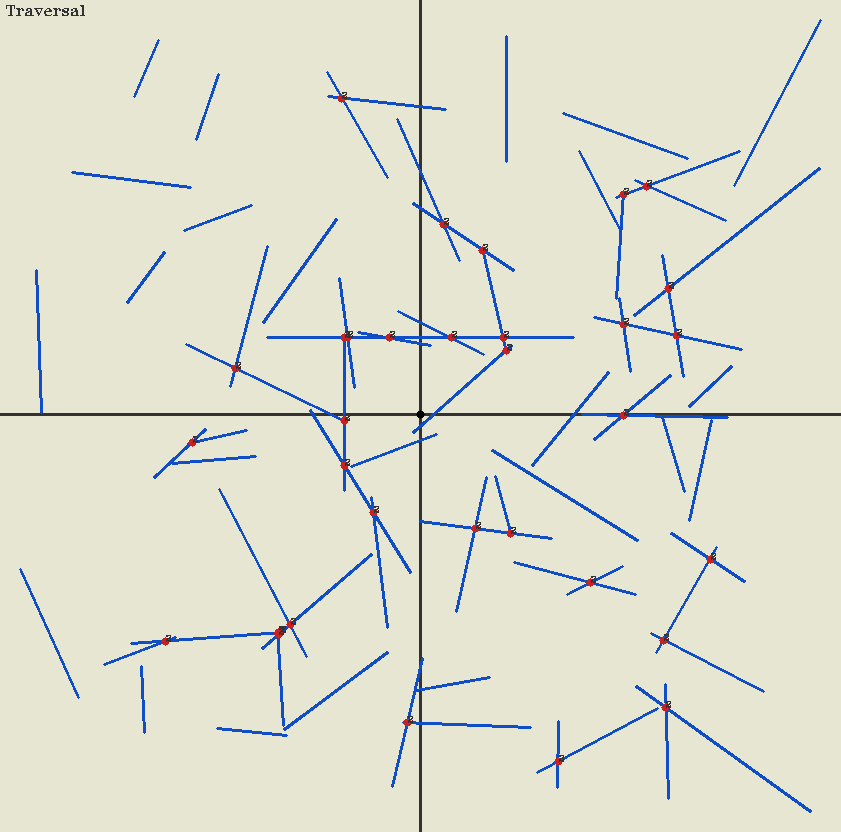
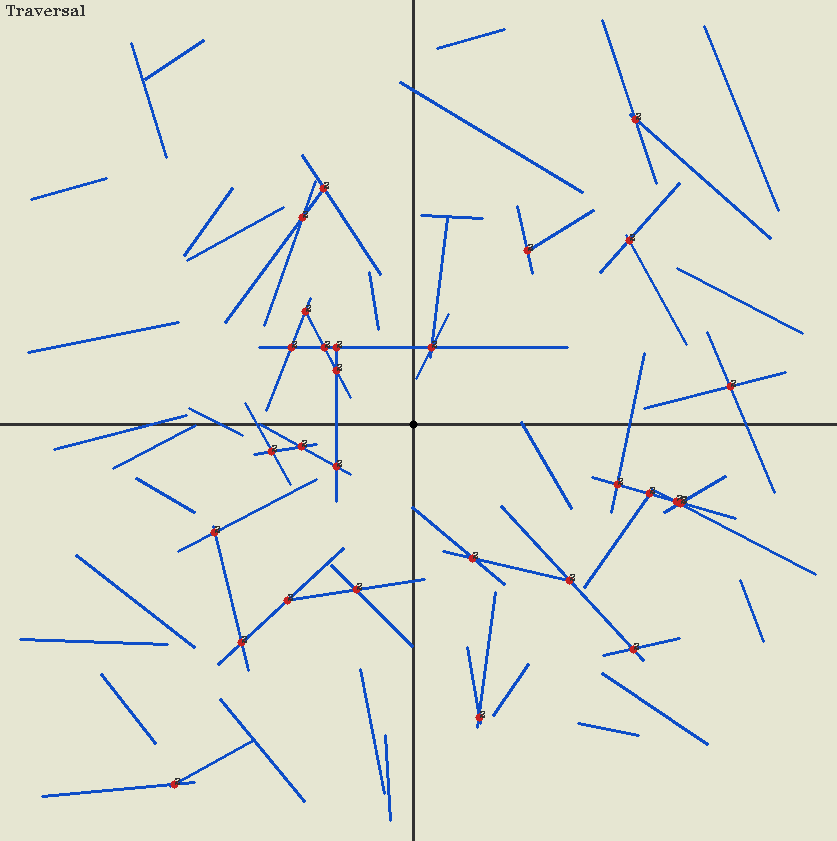
code backup

diff --git a/main.cpp b/main.cpp
@@ -157,9 +157,6 @@ void avltree_test() {
 
 // ================ line Segment Intersection Test ================
 
-GeoChain::Euclidean::Point GeoChain::Algorithms::PlaneSweeper::SweeperState =
-		GeoChain::Euclidean::Point(EUC2D, -g_GlobalVars.convention_infinity, -g_GlobalVars.convention_infinity);
-
 GeoChain::Algorithms::PlaneSweeper line_intersection_sweepline(std::vector<GeoChain::Euclidean::Segment> *ptr_segs,
 																															 int repeat_num) {
 	using namespace GeoChain;
@@ -304,12 +301,11 @@ void sweepline_test(float range, float expand, int repeat_experiments, bool visu
 	if (visual_opt) {
 		visual.Visualize("Sweepline", "Topics/Line Segment Intersection/Sweepline.png");
 		visual_traverse.Visualize("Traversal", "Topics/Line Segment Intersection/Traversal.png");
-		cv::destroyAllWindows();
 	}
 }
 
-std::vector<GeoChain::Algorithms::PlaneSweeper> double_sweepline(
-		std::vector<std::vector<GeoChain::Euclidean::Segment>> *ptr_seg_vecs) {
+void double_sweepline(std::vector<std::vector<GeoChain::Euclidean::Segment>> *ptr_seg_vecs,
+											std::vector<GeoChain::Euclidean::Visualizer2D> *visual_list) {
 	using namespace GeoChain;
 	using namespace Algorithms;
 	using namespace Euclidean;
@@ -328,30 +324,46 @@ std::vector<GeoChain::Algorithms::PlaneSweeper> double_sweepline(
 
 	std::vector<int> step_counter_list = {0, 0};
 	std::vector<bool> continue_flag_list = {true, true};
-	std::vector<PlaneSweeper> sweeper_list = {plane_sweeper_1, plane_sweeper_2};
 
 	int num_flag_false = 0;
 	while (num_flag_false < 2) {
-		for (int i = 0; i < 2; i++) {
-			if (continue_flag_list[i] and sweeper_list[i].Update()) {
-				LOG(INFO) << "(" << sweeper_list[0].SweeperState.x_ << "," << sweeper_list[0].SweeperState.y_ << ") v.s. ("
-									<< sweeper_list[1].SweeperState.x_ << "," << sweeper_list[1].SweeperState.y_ << ")";
-				step_counter_list[i]++;
-			} else if (continue_flag_list[i]) {
-				num_flag_false += 1;
-				continue_flag_list[i] = false;
-			}
+		// LOG(WARNING) << "(" << sweeper_list[0].SweeperState.x_ << "," << sweeper_list[0].SweeperState.y_ << ") v.s. ("
+		// 						 << sweeper_list[1].SweeperState.x_ << "," << sweeper_list[1].SweeperState.y_ << ")";
+
+		// (*visual_list)[0].Draw(plane_sweeper_1.SweeperState, std::to_string(step_counter_list[0]));
+		// (*visual_list)[0].Visualize(std::to_string(0), "");
+		if (continue_flag_list[0] and plane_sweeper_1.Update()) {
+			step_counter_list[0]++;
+		} else if (continue_flag_list[0]) {
+			num_flag_false += 1;
+			continue_flag_list[0] = false;
+		}
+		// (*visual_list)[1].Draw(plane_sweeper_2.SweeperState, std::to_string(step_counter_list[1]));
+		// (*visual_list)[1].Visualize(std::to_string(1), "");
+		if (continue_flag_list[1] and plane_sweeper_2.Update()) {
+			step_counter_list[1]++;
+		} else if (continue_flag_list[1]) {
+			num_flag_false += 1;
+			continue_flag_list[1] = false;
 		}
 	}
-	return sweeper_list;
+	for (auto &&e_ : plane_sweeper_1.events_list_) {
+		if (e_.num_ >= 2) {
+			(*visual_list)[0].Draw(*(e_.point_), std::to_string(e_.num_));
+		}
+	}
+	for (auto &&e_ : plane_sweeper_2.events_list_) {
+		if (e_.num_ >= 2) {
+			(*visual_list)[1].Draw(*(e_.point_), std::to_string(e_.num_));
+		}
+	}
 }
 
-void double_sweepline_test(float range, float expand, int repeat_experiments, bool visual_opt = false) {
+void double_sweepline_test(float range, float expand, bool visual_opt = false) {
 	using namespace GeoChain;
 	using namespace Algorithms;
 	using namespace Euclidean;
 
-	std::vector<Segment> segments;
 	srand((unsigned)time(NULL));
 	float unit = 1.0;
 	float thresh = 0.3;
@@ -361,6 +373,7 @@ void double_sweepline_test(float range, float expand, int repeat_experiments, bo
 	std::vector<std::vector<Segment>> seg_vecs;
 	for (int r_ = 0; r_ < 2; r_++) {
 		std::vector<Point> attendents;
+		std::vector<Segment> segments;
 		for (int c_ = -range; c_ <= range; c_ += unit) {
 			for (int r_ = -range; r_ <= range; r_ += unit) {
 				rand_unit_ = rand() / double(RAND_MAX);
@@ -391,17 +404,11 @@ void double_sweepline_test(float range, float expand, int repeat_experiments, bo
 		seg_vecs.push_back(segments);
 	}
 
-	std::vector<PlaneSweeper> plane_sweeper_list = double_sweepline(&seg_vecs);
-	for (int i_ = 0; i_ < plane_sweeper_list.size(); i_++) {
-		for (auto &&e_ : plane_sweeper_list[i_].events_list_) {
-			if (e_.num_ >= 2) {
-				visual_list[i_].Draw(*(e_.point_), std::to_string(e_.num_));
-			}
-		}
-		if (visual_opt) {
-			visual_list[i_].Visualize("Sweepline", "Topics/Line Segment Intersection/Sweepline.png");
-			cv::destroyAllWindows();
-		}
+	double_sweepline(&seg_vecs, &visual_list);
+
+	if (visual_opt) {
+		visual_list[0].Visualize("Sweepline_1", "");
+		visual_list[1].Visualize("Sweepline_2", "");
 	}
 }
 
@@ -453,21 +460,20 @@ int main(int argc, char **argv) {
 		LOG(INFO) << g_ConfigRoot;
 	}
 
-	// visualizer test part
+	// ======== visualizer test part ========
 	// visualizer_test();
 
-	// avl-tree test part
+	// ======== avl-tree test part ========
 	// avltree_test();
 
-	// line segment intersection test part
+	// ======== line segment intersection test part ========
 	// sweepline_test(4.0, 2.5, 50, true);
 	// for (float exp_ = 1.0; exp_ < 3.5; exp_ += 0.1) {
 	// 	for (int expr_ = 0; expr_ < 1; expr_ += 1) {
 	// 		sweepline_test(10.0, exp_, 10, true);	// atof(argv[1]), atoi(argv[2])
 	// 	}
 	// }
-
-	double_sweepline_test(5.0, 2.5, 1, true);
+	double_sweepline_test(4.0, 2.5, true);
 
 	// dbconnected_edgelist_test();
 }

diff --git a/Topics/Line Segment Intersection/PlaneSweepAlgorithm.h b/Topics/Line Segment Intersection/PlaneSweepAlgorithm.h
@@ -143,11 +143,12 @@ class PlaneSweeper {
 	std::vector<Point> new_events_;
 	std::vector<PointSegmentAffiliation> events_list_ = std::vector<PointSegmentAffiliation>();
 
-	static Point SweeperState;
+	Point SweeperState;
 
-	static bool UpdateSweeper(Point* event) {
+	bool UpdateSweeper(Point* event) {
 		if (SweeperState.dim_ != event->dim_ || event->status_ == INIT) {
-			LOG(ERROR) << "please make sure that the updating events dimension match";
+			LOG(ERROR) << "please make sure that the updating events dimension match: " << SweeperState.dim_ << " "
+								 << event->dim_;
 			return false;
 		} else {
 			// LOG(WARNING) << "previous status: (" << SweeperState.x_ << "," << SweeperState.y_ << ")";
@@ -159,7 +160,7 @@ class PlaneSweeper {
 		}
 	}
 
-	static kWellOrder SegmentComparer(Node<Segment>* node_1, Node<Segment>* node_2) {
+	kWellOrder SegmentComparer(Node<Segment>* node_1, Node<Segment>* node_2) {
 		float intersect_1, intersect_2;
 		float theta_1, theta_2;	// (-PI/2, PI/2]
 		// LOG(WARNING) << "sweeper status: (" << SweeperState.x_ << "," << SweeperState.y_ << ")";
@@ -223,16 +224,19 @@ class PlaneSweeper {
 							 Node<Segment>* root_status)
 			: dim_(dim),
 				events_table_(BalancedBinarySearchTree<PointSegmentAffiliation>(root_events, comparer_events)),
-				status_table_(BalancedBinarySearchTree<Segment>(root_status, PlaneSweeper::SegmentComparer)) {
+				SweeperState(Point(EUC2D, -g_GlobalVars.convention_infinity, -g_GlobalVars.convention_infinity)) {
+		this->status_table_ = BalancedBinarySearchTree<Segment>(
+				root_status, std::bind(&PlaneSweeper::SegmentComparer, this, std::placeholders::_1, std::placeholders::_2));
+
 		// reserve the vector space could avoid data relocating in order to use ptr further
 		int max_event_num_ = (seg_list->size() * seg_list->size() - seg_list->size()) / 2;
 		events_list_.reserve(max_event_num_ + 2 * seg_list->size());
 		events_nodes_.reserve(max_event_num_ + 2 * seg_list->size());
 		status_nodes_.reserve(seg_list->size());
 		new_events_.reserve(max_event_num_);
-		// here though we considered the maximum number of potential events, we cannot assure that each event in the vector
-		// could be useful. Some duplicated events may occur in the vector but only the first one is useful in the tree and
-		// stored correct data value.
+		// here though we considered the maximum number of potential events, we cannot assure that each event in the
+		// vector could be useful. Some duplicated events may occur in the vector but only the first one is useful in
+		// the tree and stored correct data value.
 
 		for (auto&& s : (*seg_list)) {
 			this->segments_.push_back(&s);
@@ -298,7 +302,7 @@ class PlaneSweeper {
 
 		// this->events_table_.Inspect();
 
-		if (segments_.size() > 0) {
+		if (this->segments_.size() > 0) {
 			this->event_state_ = this->events_table_.Min(this->events_table_.root_);
 			Point* min_pt = this->event_state_->geometric_element_->point_;
 			this->UpdateSweeper(min_pt);

diff --git a/Vessels/BinaryTree.h b/Vessels/BinaryTree.h
@@ -464,11 +464,13 @@ class BalancedBinarySearchTree {
 	// deepness: depth of the ROOT
 	int balancing_ = 0, deepness_ = 0;
 
-	kWellOrder (*comparer_)(Node<Element>* node_1, Node<Element>* node_2);
+	// kWellOrder (*comparer_)(Node<Element>* node_1, Node<Element>* node_2);
+	std::function<kWellOrder(Node<Element>*, Node<Element>*)> comparer_;
 
 	BalancedBinarySearchTree(int id, std::string key, Node<Element>* root,
 													 kWellOrder (*comparer)(Node<Element>*, Node<Element>*), bool balanced = true)
-			: id_(id), key_(key), root_(root), comparer_(comparer), balanced_(balanced) {
+			: id_(id), key_(key), root_(root), balanced_(balanced) {
+		this->comparer_ = std::bind(comparer, std::placeholders::_1, std::placeholders::_2);
 		if (g_GlobalVars.convention_element_id >= this->id_) {
 			g_GlobalVars.convention_element_id++;
 			this->id_ = g_GlobalVars.convention_element_id;
@@ -481,6 +483,18 @@ class BalancedBinarySearchTree {
 
 	BalancedBinarySearchTree(Node<Element>* root, kWellOrder (*comparer)(Node<Element>*, Node<Element>*),
 													 bool balanced = true)
+			: root_(root), balanced_(balanced) {
+		this->comparer_ = std::bind(comparer, std::placeholders::_1, std::placeholders::_2);
+		g_GlobalVars.convention_element_id++;
+		this->id_ = g_GlobalVars.convention_element_id;
+		this->key_ =
+				"AVLTree" + Utils::ExtractClassName(std::string(typeid(*this).name())) + " {" + std::to_string(this->id_) + "}";
+		this->root_->tree_id_ = this->id_;
+		this->root_->tree_key_ = this->key_;
+	}
+
+	BalancedBinarySearchTree(Node<Element>* root, std::function<kWellOrder(Node<Element>*, Node<Element>*)> comparer,
+													 bool balanced = true)
 			: root_(root), comparer_(comparer), balanced_(balanced) {
 		g_GlobalVars.convention_element_id++;
 		this->id_ = g_GlobalVars.convention_element_id;
@@ -489,6 +503,9 @@ class BalancedBinarySearchTree {
 		this->root_->tree_id_ = this->id_;
 		this->root_->tree_key_ = this->key_;
 	}
+
+	BalancedBinarySearchTree(){};
+
 	~BalancedBinarySearchTree(){};
 
 	// Inspect: visualize and inspect the tree structure

diff --git a/Visualizers/Visualizer2D.h b/Visualizers/Visualizer2D.h
@@ -218,6 +218,8 @@ class Visualizer2D {
 									COLOR_NOTATION, g_GlobalVars.visualize_font_thickness);
 			cv::imwrite(save_name, flipped);
 			cv::destroyWindow(window_name);
+		} else {
+			cv::destroyWindow(window_name);
 		}
 	};
 
